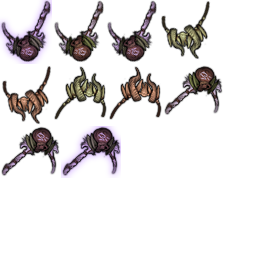
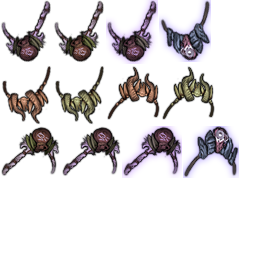
Add Alp Trophy Necklace +1
- Vanilla +5 Resolve plus +10% Resolve against psychic (mental attack) morale checks
- Recipe: Alp Trophy Necklace + 2x Third Eye + 1x Petrified Scream + 1x Parched Skin, 5000 crowns
  (necklace always consumed, Alchemist cannot duplicate it)
- Art: ethereal blue-violet necklace with glow and sparkles; worn sprite added to brushes/cer_trophies.brush

Changed region(s): [[0.1875, 0.0, 0.9375, 0.7188], [0.0, 0.0, 0.2188, 0.25], [0.4062, 0.0938, 0.5312, 0.2188]]

diff --git a/README.md b/README.md
@@ -39,10 +39,10 @@ Upgraded trophy necklaces (0.4.0) - each upgrade consumes the previous necklace;
 | Hexen Trophy Necklace +3 | +9 Resolve | Hexen Trophy Necklace +2, 1x Witch Hair, 1x Poisoned Apple, 1x Mysterious Herbs | 2000 |
 | Nachzehrer Trophy Necklace +1 | +4 Resolve, heals 3 HP after each battle | Nachzehrer Trophy Necklace, 3x Ghoul Brain, 2x Ghoul Horn | 1000 |
 | Nachzehrer Trophy Necklace +2 | +4 Resolve, heals 5 HP after each battle | Nachzehrer Trophy Necklace +1, 4x Ghoul Brain, 3x Ghoul Teeth, 1x Growth Pearls | 2000 |
+| Alp Trophy Necklace +1 | +5 Resolve, +10% Resolve against psychic attacks | Alp Trophy Necklace, 2x Third Eye, 1x Petrified Scream, 1x Parched Skin | 5000 |
 
 Armor attachment (0.4.0):
 
 | Attachment | Effect | Ingredients | Cost |
 |---|---|---|---|
 | Spidersilk Padding Replacement | Reduces the armor's Maximum Fatigue penalty by 30% (Light Padding: 20%), +10 Durability | Light Padding Replacement (not fused), 4x Spider Silk, 2x Poison Gland | 1000 |
-
